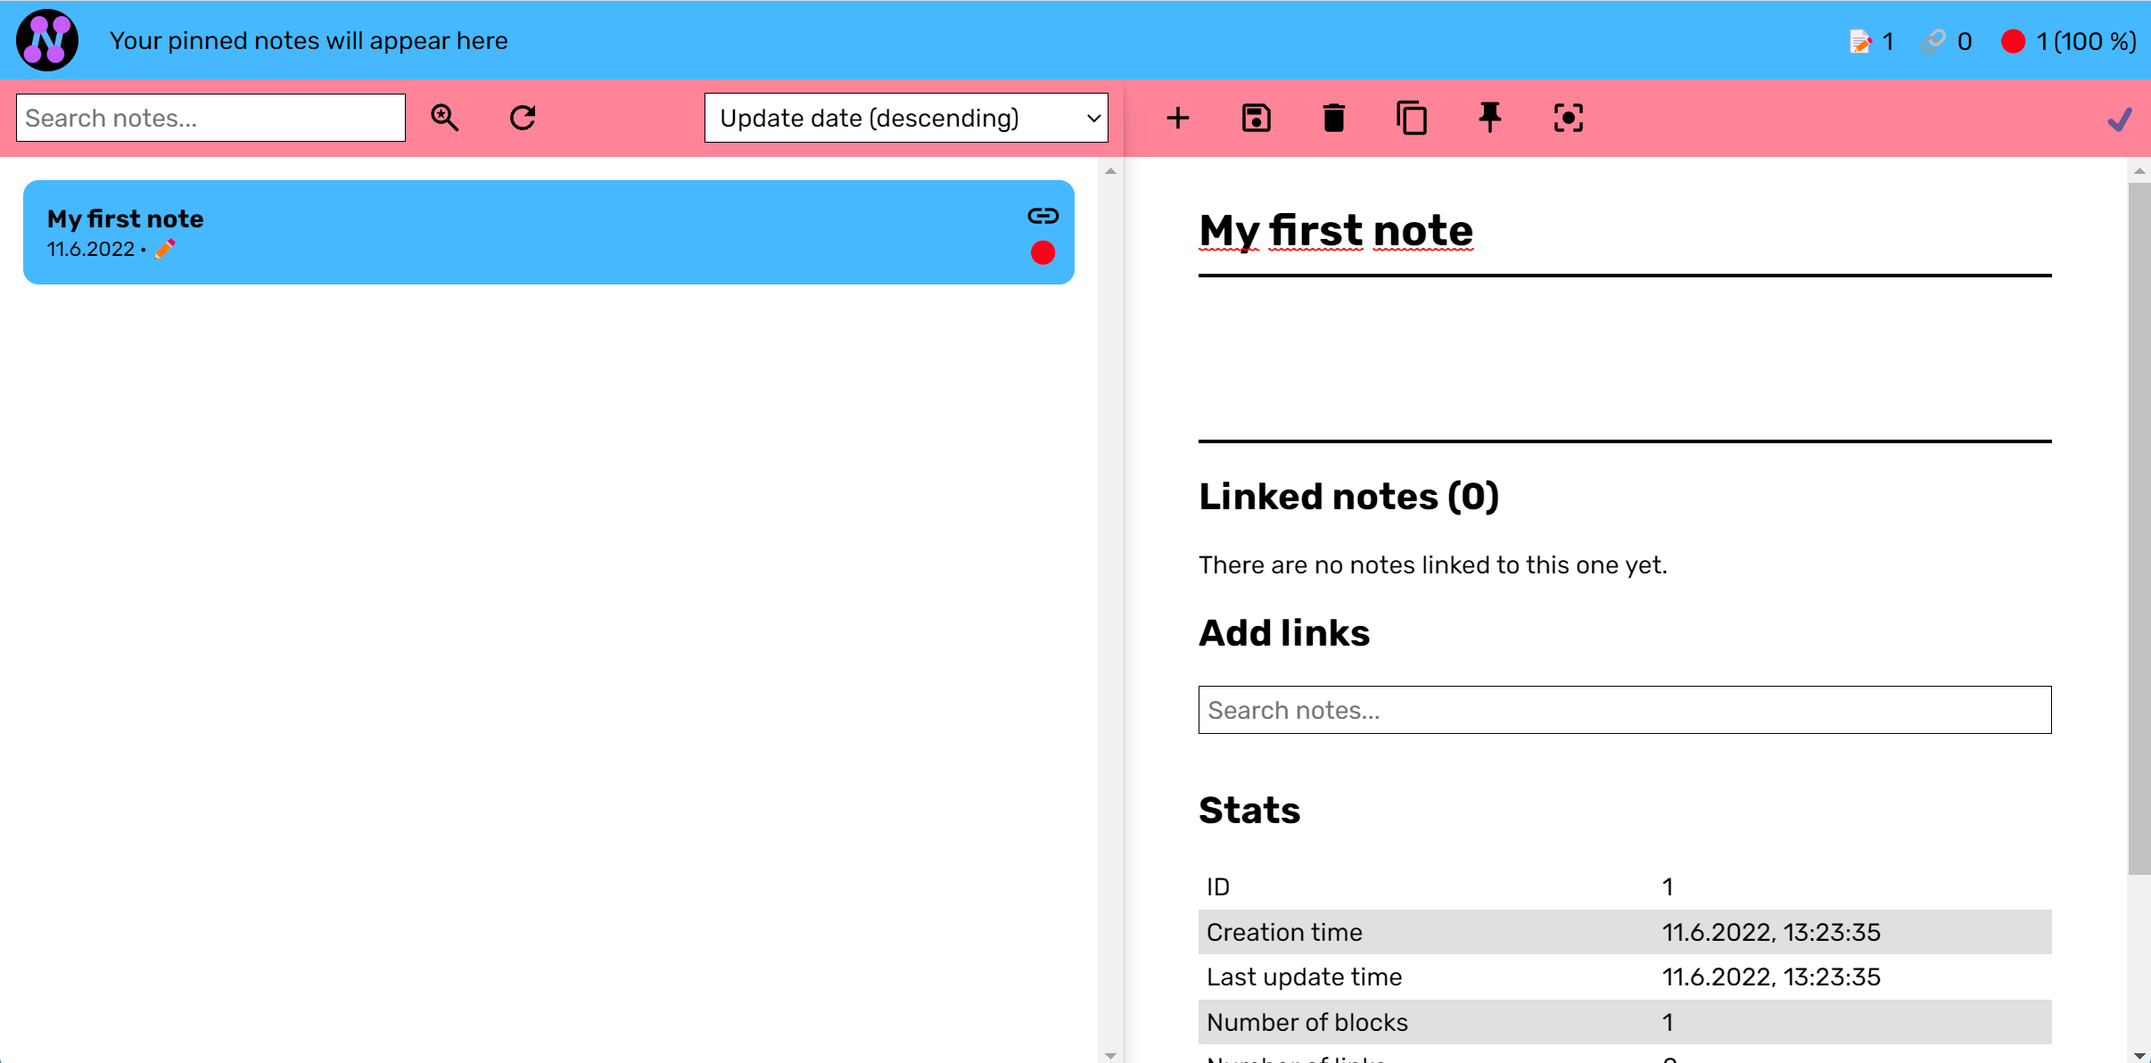
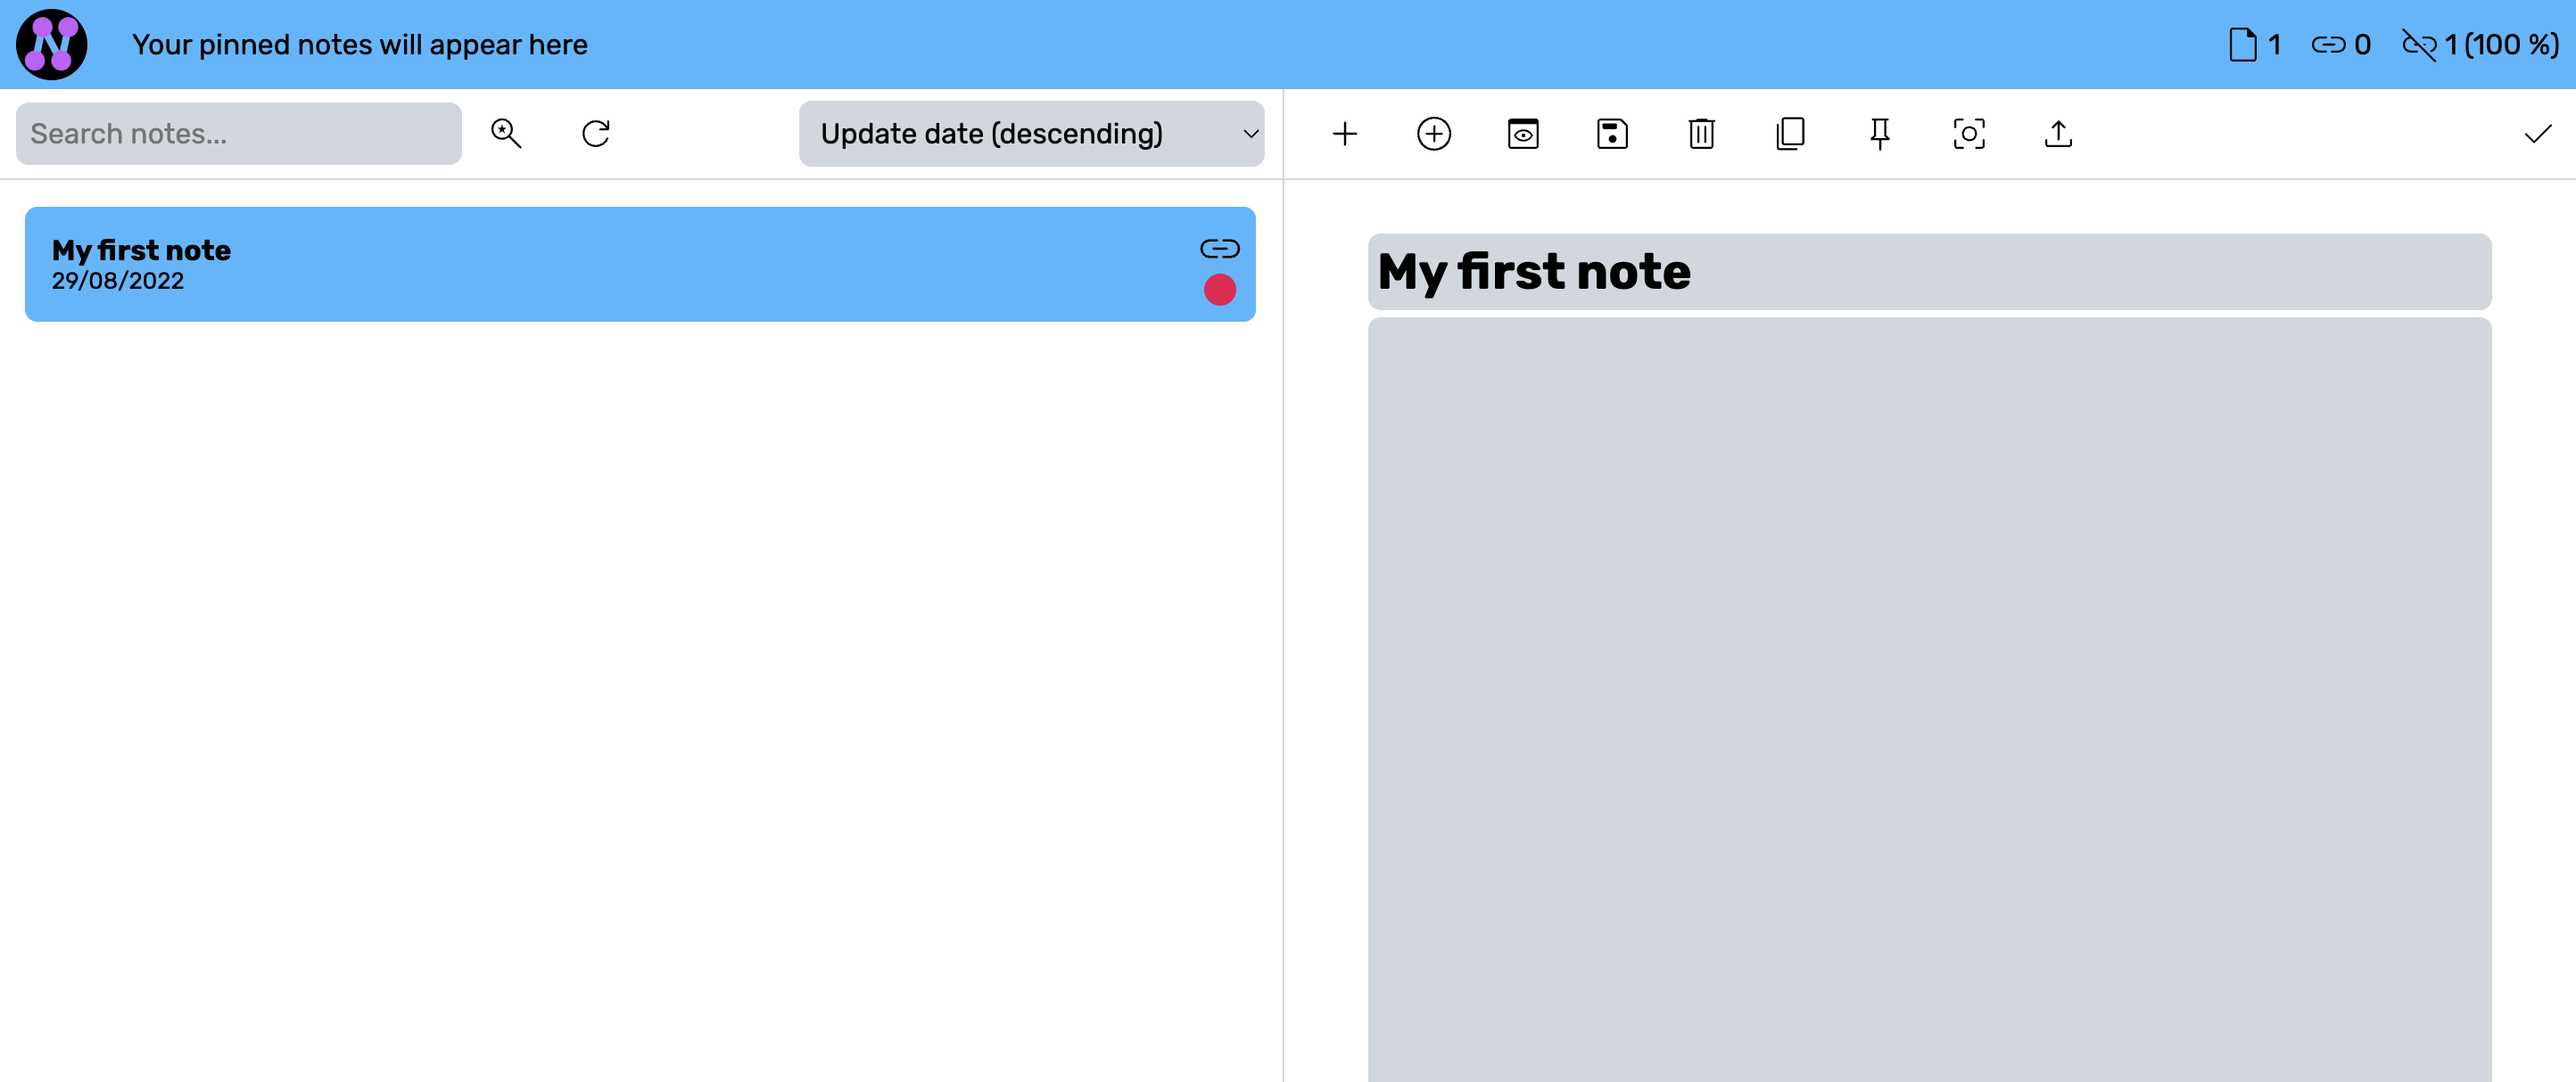
docs: update

diff --git a/docs/index.md b/docs/index.md
@@ -23,8 +23,9 @@ NENO is open-source software which means it is completely free to use.
 ### Some features
 
 * Full data ownership: You decide where your data is stored: On your device, on a cloud storage of your choice, or even on your own NENO server.
-* WYSIWYG editor that allows to paste multiple media types: video, audio, PDF documents, images and code
+* Multiple media types: Paste video, audio, PDF documents, images and code into your note
 * Graph View: Drag and drop nodes and create your custom knowledge graph visualization
+* Super-simple plaintext editor
 * Powerful full-text search
 * Tap-to-link: One click is enough to link two notes
 * File overview: All uploaded files in one view
@@ -84,7 +85,12 @@ contains your first note:
 
 ![My first note](./img/my-first-note.png)
 
-If you create another one, you can link it with the first one by clicking on the
+You can now use subwaytext to fill your note. Toggle view mode by clicking on "finish editing".
+A note in view mode might look like this:
+
+![Example of a rendered note](./img/rendered-note-example.png)
+
+If you create another note, you can link it with the first one by clicking on the
 chain icon of your first note in the note list:
 
 ![Link to another note](./img/link-to-another-note.png)
@@ -108,3 +114,10 @@ One of the best features of NENO is the Graph view.
 Now you should already be familiar with NENO's basic functionality. But there
 are some [tips and tricks for working with NENO](./TipsAndTricks.md) that
 can make your life easier.
+
+## Keyboard Shortcuts
+
+### Editor
+
+- Save note: `CTRL`/`CMD` + `s`
+- Toggle edit mode/viewer mode: `CTRL`/`CMD` + `.`

diff --git a/README.md b/README.md
@@ -27,8 +27,9 @@ NENO is a powerful note-taking app that helps you create your personal knowledge
 ## Features
 
 * Full data ownership: You decide where your data is stored: On your device, on a cloud storage of your choice, or even on your own NENO server.
-* WYSIWYG editor that allows to paste multiple media types: video, audio, PDF documents, images and code
+* Multiple media types: Paste video, audio, PDF documents, images and code into your note
 * Graph View: Drag and drop nodes and create your custom knowledge graph visualization
+* Super-simple plaintext editor
 * Powerful full-text search
 * Tap-to-link: One click is enough to link two notes
 * File overview: All uploaded files in one view
